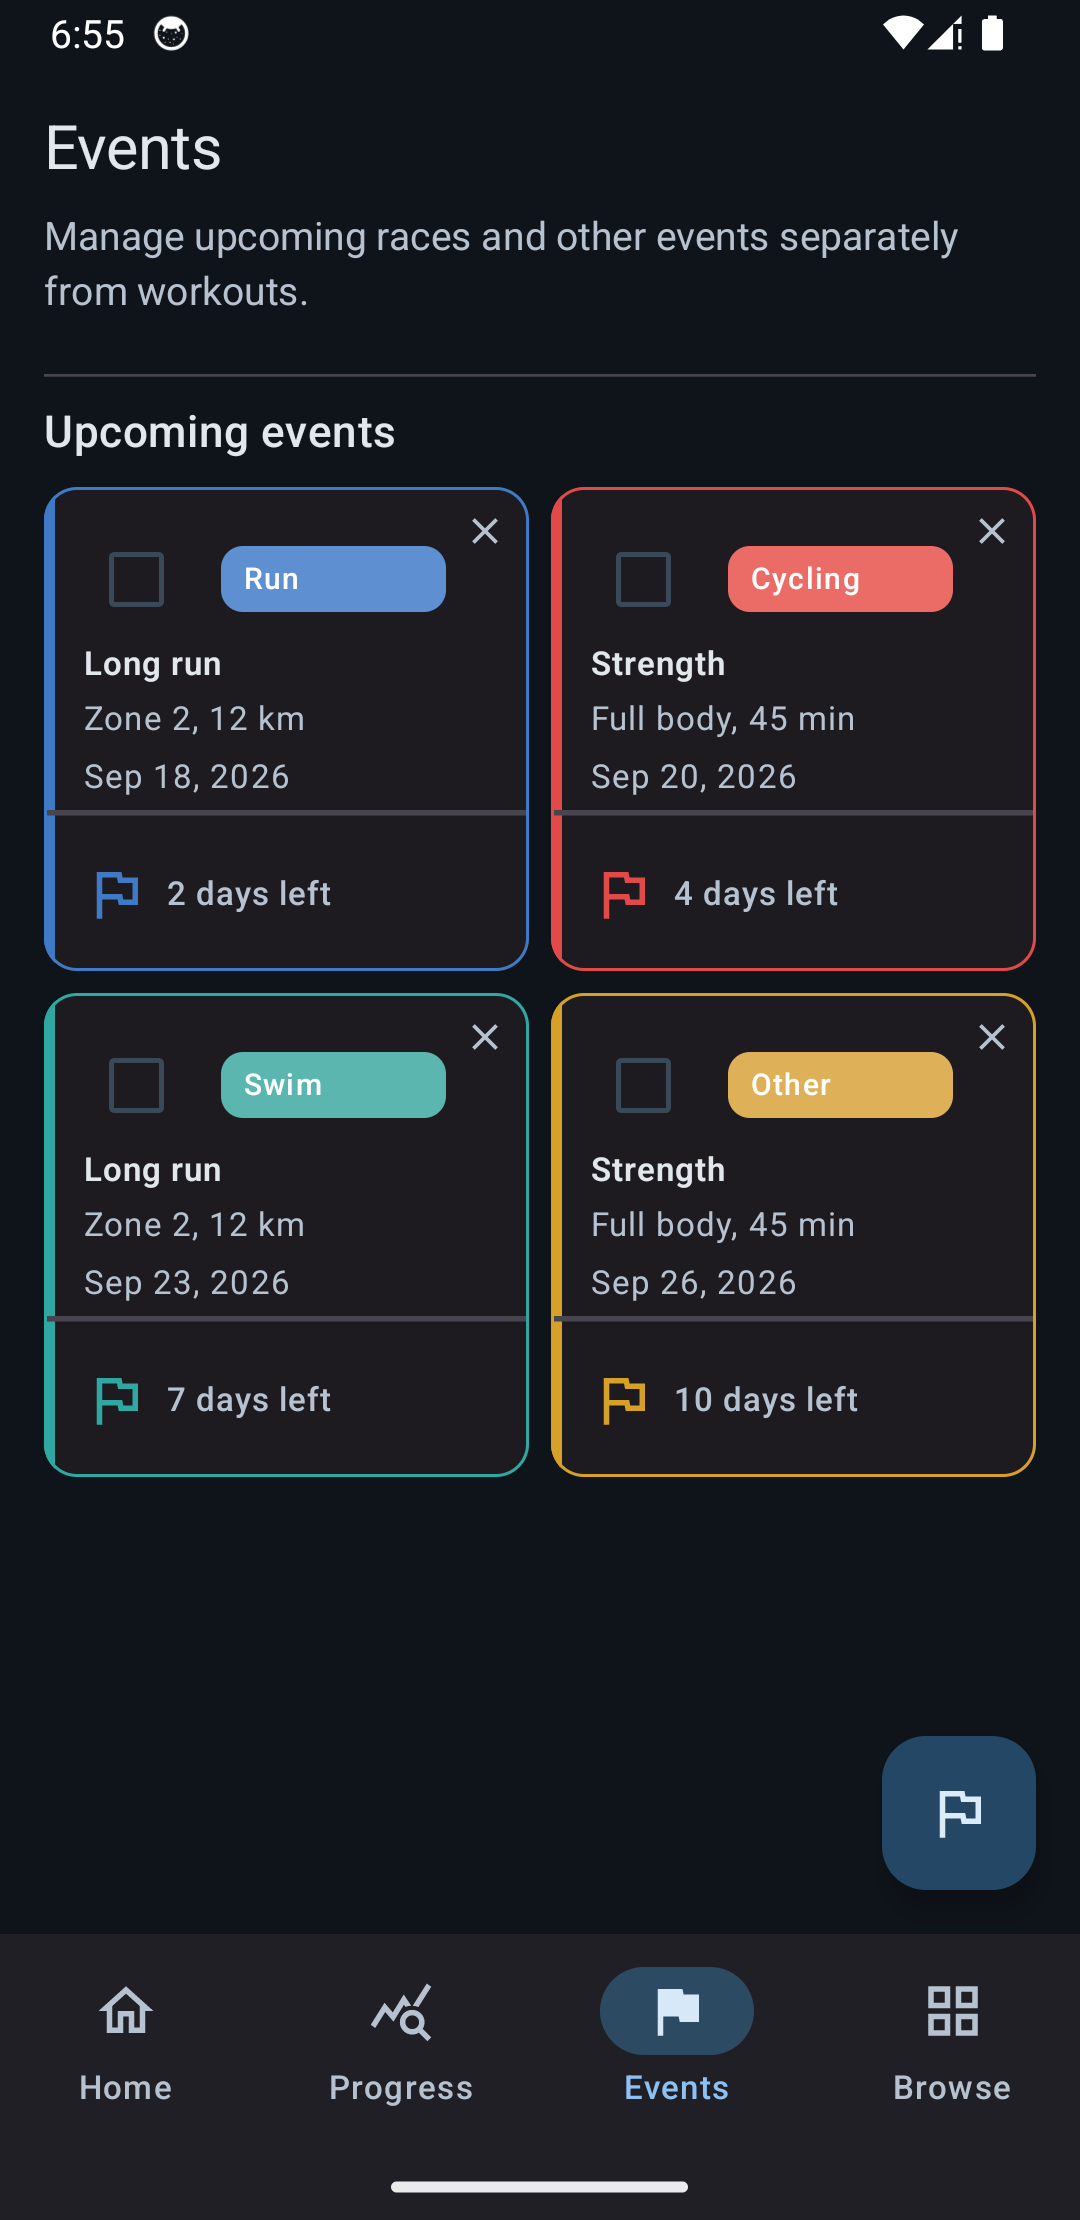
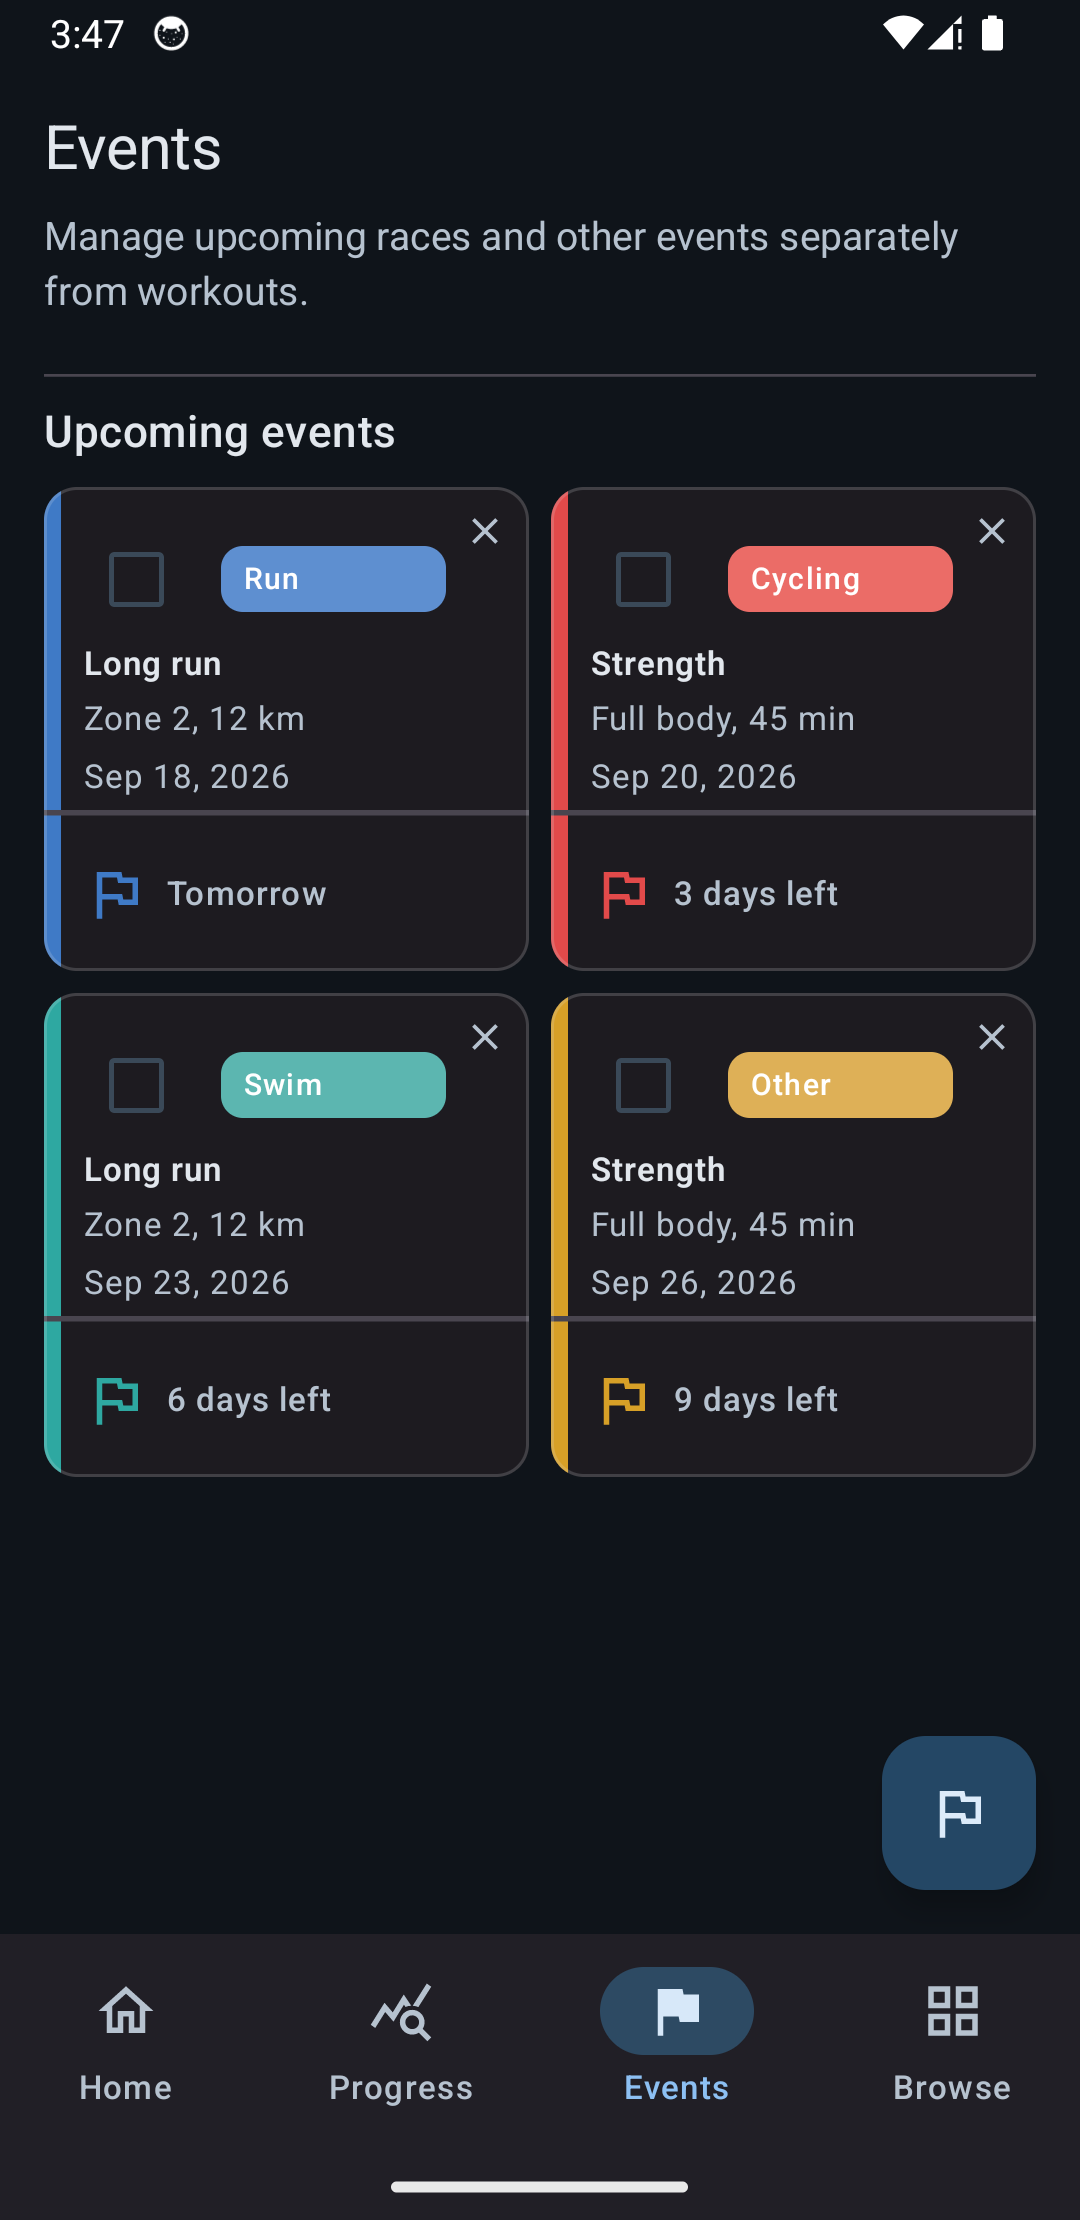
Align event cards with rail frame style

diff --git a/app/src/main/java/com/rafaelfelipeac/hermes/features/events/presentation/EventsContent.kt b/app/src/main/java/com/rafaelfelipeac/hermes/features/events/presentation/EventsContent.kt
@@ -61,6 +61,7 @@ import com.rafaelfelipeac.hermes.core.ui.theme.Dimens.CheckboxSize
 import com.rafaelfelipeac.hermes.core.ui.theme.Dimens.ContentPadding
 import com.rafaelfelipeac.hermes.core.ui.theme.Dimens.EventCardFooterHeight
 import com.rafaelfelipeac.hermes.core.ui.theme.Dimens.EventCardHeight
+import com.rafaelfelipeac.hermes.core.ui.theme.Dimens.EventCategoryAccentWidth
 import com.rafaelfelipeac.hermes.core.ui.theme.Dimens.EventFlagIconSize
 import com.rafaelfelipeac.hermes.core.ui.theme.Dimens.SmallIconSize
 import com.rafaelfelipeac.hermes.core.ui.theme.Dimens.SpacingLg
@@ -78,6 +79,7 @@ import java.time.LocalDate
 import java.time.temporal.ChronoUnit
 
 private const val TYPE_CHIP_ALPHA = 0.18f
+private const val EVENT_CARD_FRAME_ALPHA = 0.18f
 private const val EVENT_GRID_COLUMNS = 2
 internal const val EVENT_CARD_TAG_PREFIX = "event-card-"
 
@@ -250,6 +252,7 @@ private fun EventCard(
             lighterTone(base, isDarkTheme = isDarkTheme)
         }
     val categoryChipContent = Color.White
+    val frameColor = colorScheme.onSurface.copy(alpha = EVENT_CARD_FRAME_ALPHA)
     val countdown = countdownLabel(eventDate = eventDate, today = eventToday)
     val dateLabel = formatWorkoutDate(eventDate, currentLocale)
     val categoryLabel = event.categoryName ?: stringResource(R.string.category_uncategorized)
@@ -265,7 +268,7 @@ private fun EventCard(
     Card(
         onClick = onClick,
         shape = shapes.medium,
-        border = BorderStroke(BorderHairline, accent),
+        border = BorderStroke(BorderHairline, frameColor),
         colors =
             CardDefaults.cardColors(
                 containerColor = colorScheme.surfaceContainerLow,
@@ -289,7 +292,7 @@ private fun EventCard(
                 modifier =
                     Modifier
                         .fillMaxHeight()
-                        .width(SpacingXs)
+                        .width(EventCategoryAccentWidth)
                         .background(accent),
             )
 

diff --git a/app/src/main/java/com/rafaelfelipeac/hermes/core/ui/theme/Dimens.kt b/app/src/main/java/com/rafaelfelipeac/hermes/core/ui/theme/Dimens.kt
@@ -78,6 +78,7 @@ object Dimens {
     val CategoryColorGridHeight = 140.dp
     val EventCardFooterHeight = 44.dp
     val EventCardHeight = 176.dp
+    val EventCategoryAccentWidth = 6.dp
     val EventsTestViewportWidth = 420.dp
     val EventsTestViewportHeight = 720.dp
     val DatePickerDialogMaxHeight = 568.dp

diff --git a/LEARNING.md b/LEARNING.md
@@ -690,3 +690,4 @@ Recent learnings:
 - Trophy shelf items feel less generated when category color is structural rather than decorative. Replacing full colored frames with a single left rail keeps the card neutral while category-tinted icons preserve the achievement identity.
 - Trophy rails need a neutral frame to keep card boundaries legible. The category rail can own the left edge while a thinner low-alpha surface frame defines the remaining edges without making the category color feel like decoration.
 - Trophy card borders make text proximity more noticeable than borderless cards. Title blocks need their own horizontal inset so the label reads as card content instead of touching the structural frame.
+- Event cards should share the Trophy rail/frame grammar when category color is structural. A category-only left rail plus neutral hairline frame keeps Events connected to Trophies without letting every card edge compete for attention.
